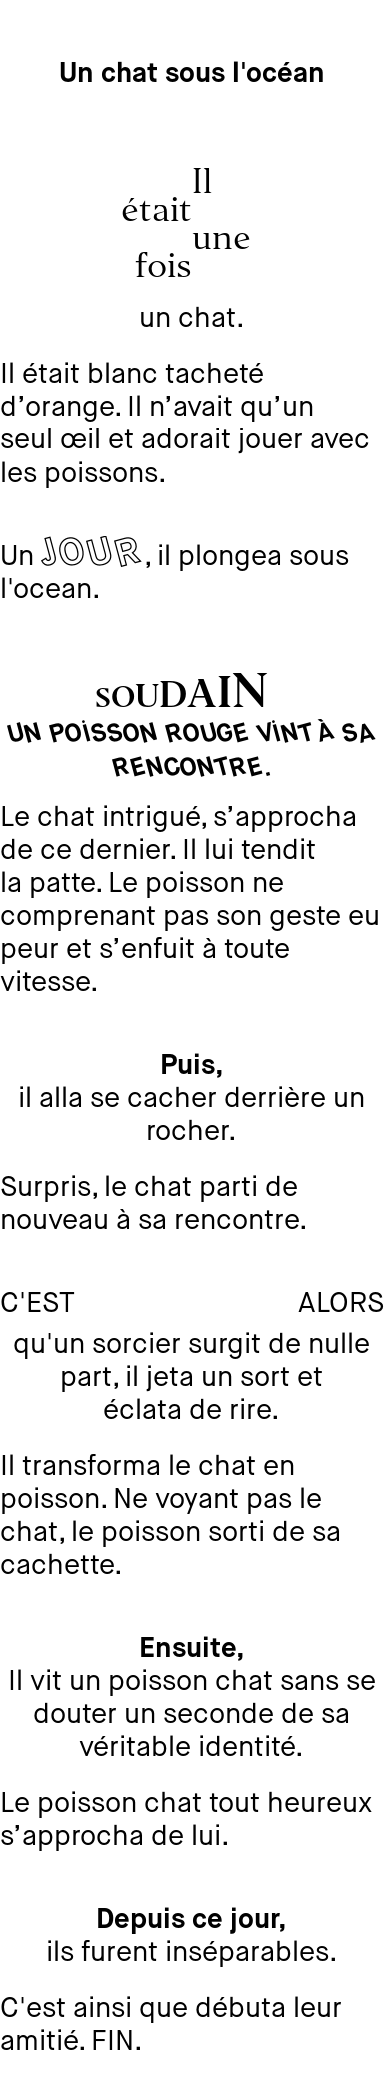
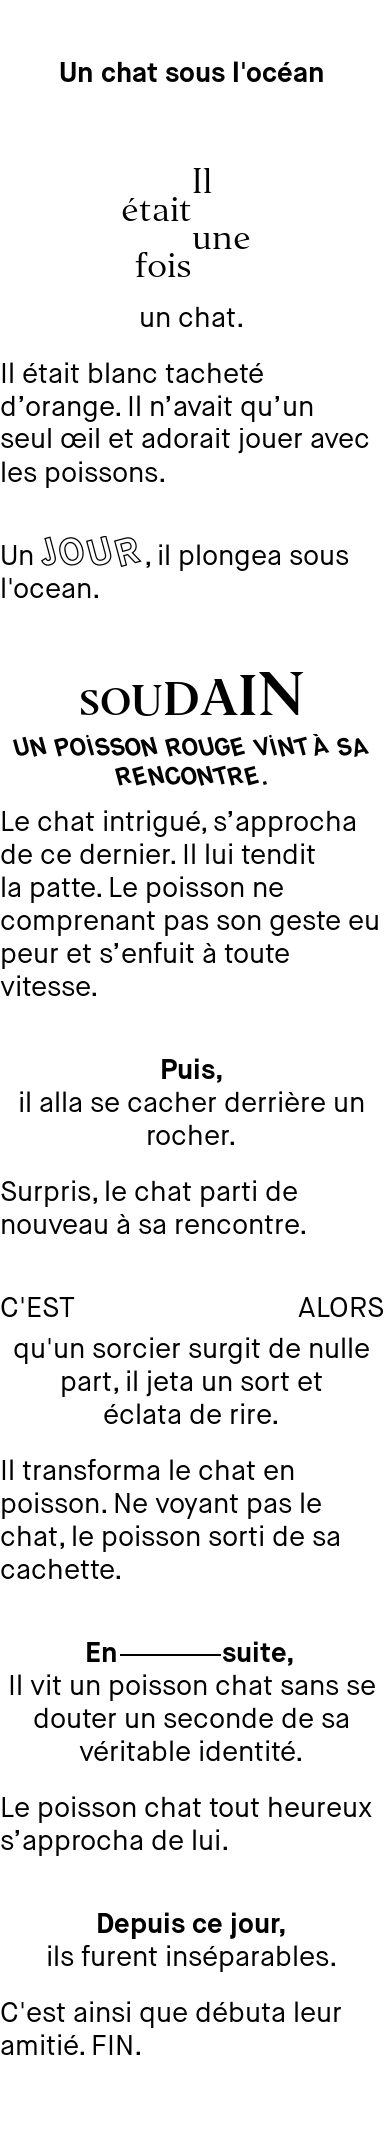
feat(form) : add line between effect

diff --git a/storydesign.py b/storydesign.py
@@ -26,6 +26,7 @@ class StoryDesign():
             "C'est l'histoire",
             "Il y a bien longtemps",
             "Un jour",
+            "Un matin",
             "Soudain",
             "Tout à coup",
             "Le lendemain",
@@ -108,7 +109,7 @@ class StoryDesign():
                     
                     #TODO : Check if have a custom word in this paragraph
                     if start_sentence.find(",") >= 0:
-                        start_sentence = start_sentence[0:len(start_sentence) - 1] #suctract ,
+                        start_sentence = start_sentence[0:len(start_sentence) - 1] # suctract "," to detect the word
                         
                         
                     # fonction mirrot effect
@@ -119,15 +120,18 @@ class StoryDesign():
                             height = effects.mirror_font(self.width, start_sentence, editor_regular, self.font_size + 5, spacing -5, self.text_color, top, context)            
                         top += height
                         
-                    elif start_sentence == "Un jour":
+                    elif start_sentence == "Un jour" or start_sentence == 'Un matin':
                         effects.word_in_sentence(self.width, start_sentence, maison_neue_book, self.font_size, maison_neue_rcontour, self.font_size + 45, self.text_color, top, context)
                        
                     # fonction to increase text in uppercase
                     elif start_sentence == "Tout à coup" or start_sentence == 'Soudain':
-                        custom_width = effects.increase_font(context, start_sentence, editor_bold, self.font_size, self.text_color, top)
+                        custom_width = effects.increase_font(context, start_sentence, editor_bold, self.font_size + 5, self.text_color, top)
                         center_left = (self.width - custom_width) / 2;
-                        effects.increase_font(context, start_sentence, editor_bold, 25, self.text_color, top, center_left)
-                    
+                        effects.increase_font(context, start_sentence, editor_bold, self.font_size + 5, self.text_color, top, center_left)
+                        top += 15
+                        
+                    elif start_sentence == "Ensuite":
+                        effects.line_between(self.width, start_sentence, maison_neue_bold, self.font_size, spacing, self.text_color, top, context)
                     
                     elif start_sentence == "C'est alors":
                         height = effects.space_between(self.width, start_sentence, maison_neue_book, self.font_size, spacing - 25, self.text_color, top, context)
@@ -163,10 +167,11 @@ class StoryDesign():
                     for first_story_line in first_story_lines:
                         
                         if start_sentence == "Soudain":
-                            text_maison_neue_rotate = ImageFont.truetype(maison_neue_rotate, self.font_size + 6, encoding="unic")
+                            text_maison_neue_rotate = ImageFont.truetype(maison_neue_rotate, self.font_size + 5, encoding="unic")
                             line_width, line_height = text_maison_neue_rotate.getsize(first_story_line) # get text width
                             center_left = (self.width - line_width) / 2; # center text
                             context.multiline_text((center_left, top), first_story_line, fill=self.text_color, font=text_maison_neue_rotate) # draw text
+                            top -= 5 
                         
                         elif start_sentence == "Un jour":
                             left = effects.word_in_sentence(self.width, start_sentence, maison_neue_book, self.font_size, maison_neue_rcontour, self.font_size + 45, self.text_color, top, False)

diff --git a/effects.py b/effects.py
@@ -43,7 +43,7 @@ def get_img_height(custom_words, title, story_parts, width, onceupon_effect, top
                     font_effects_height += height
                 
                 elif start_sentence == "Tout à coup" or start_sentence == 'Soudain':
-                        font_effects_height += spacing
+                        font_effects_height += spacing * 2 + 15
                     
                 elif start_sentence == "C'est alors":
                         height = effects.space_between(self.width, start_sentence, maison_neue_book, 25, spacing - 25, self.text_color, top, context)
@@ -181,8 +181,45 @@ def word_in_sentence(width, start_sentence, first_font, first_font_size, second_
         left = first_word_width + second_word_width
         
     return left
+
                             
+def line_between(width, start_sentence, font, font_size, spacing, text_color, top, context = False):
+    effect_top = top
+    height = 0
+    text_font = ImageFont.truetype(font, font_size, encoding="unic")
+                        
+    if start_sentence == "Ensuite":
+        
+        start = start_sentence[0:2]
+        end = start_sentence[2:len(start_sentence)] + ", "
+        
+        line_width = 100
+        line_margin = 2
+        start_width, start_height = text_font.getsize(start) # start word size
+        end_width, end_height = text_font.getsize(end) # end word size
+        
+        
+        effect_width = start_width + line_width + 2 * line_margin + end_width
+        center_left = (width - effect_width) / 2
+        
+        if context :
+            context.text((center_left, effect_top), start, fill=text_color, font=text_font)
+            
+        if context :
+            line_start = center_left + start_width + line_margin
+            effect_top += font_size / 2
+            context.line((line_start , effect_top, line_start + line_width, effect_top), "#000", 2)
+            
+        if context :
+            line_end = center_left + start_width + line_margin * 2 + line_width
+            effect_top -= font_size / 2
+            context.text((line_end, effect_top), end, fill=text_color, font=text_font)
+        
+        height += spacing
+                            
+        return height
     
+                    
 def add_image(url, add, top = 0, img_bg = False):
     custom_img = Image.open(url)
     if add == True : img_bg.paste(custom_img, (0, top))
